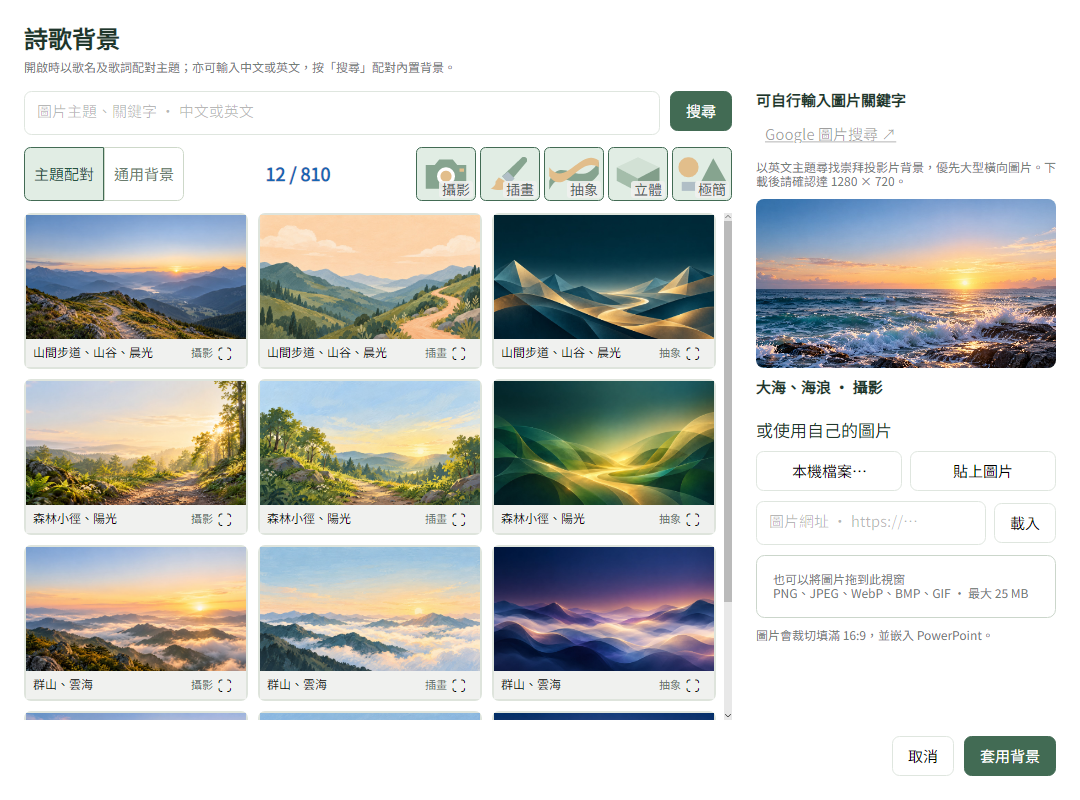
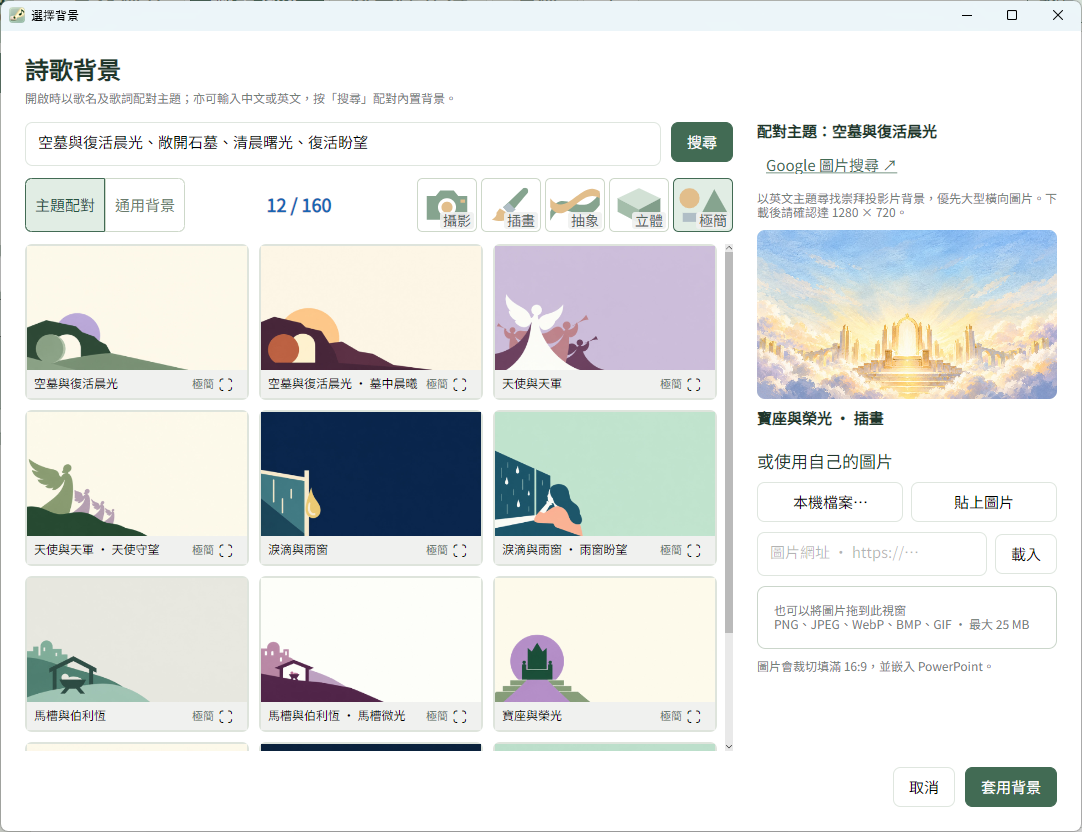
Use the selected Desktop screenshots in the README [skip ci]

diff --git a/README.md b/README.md
@@ -14,8 +14,8 @@ Prepare clear, consistent presentations for your worship service. Spend less tim
 
 <table>
   <tr>
-    <td width="50%"><img src="docs/worship-editor.png" alt="Worship service editor with lyrics and slide previews" width="100%"></td>
-    <td width="50%"><img src="docs/background-picker.png" alt="Background picker with theme matching and image import" width="100%"></td>
+    <td valign="top"><img src="docs/worship-editor.png" alt="Worship service editor with lyrics and slide previews" width="721"></td>
+    <td valign="top"><img src="docs/background-picker.png" alt="Background picker with theme matching and image import" width="632"></td>
   </tr>
 </table>
 
